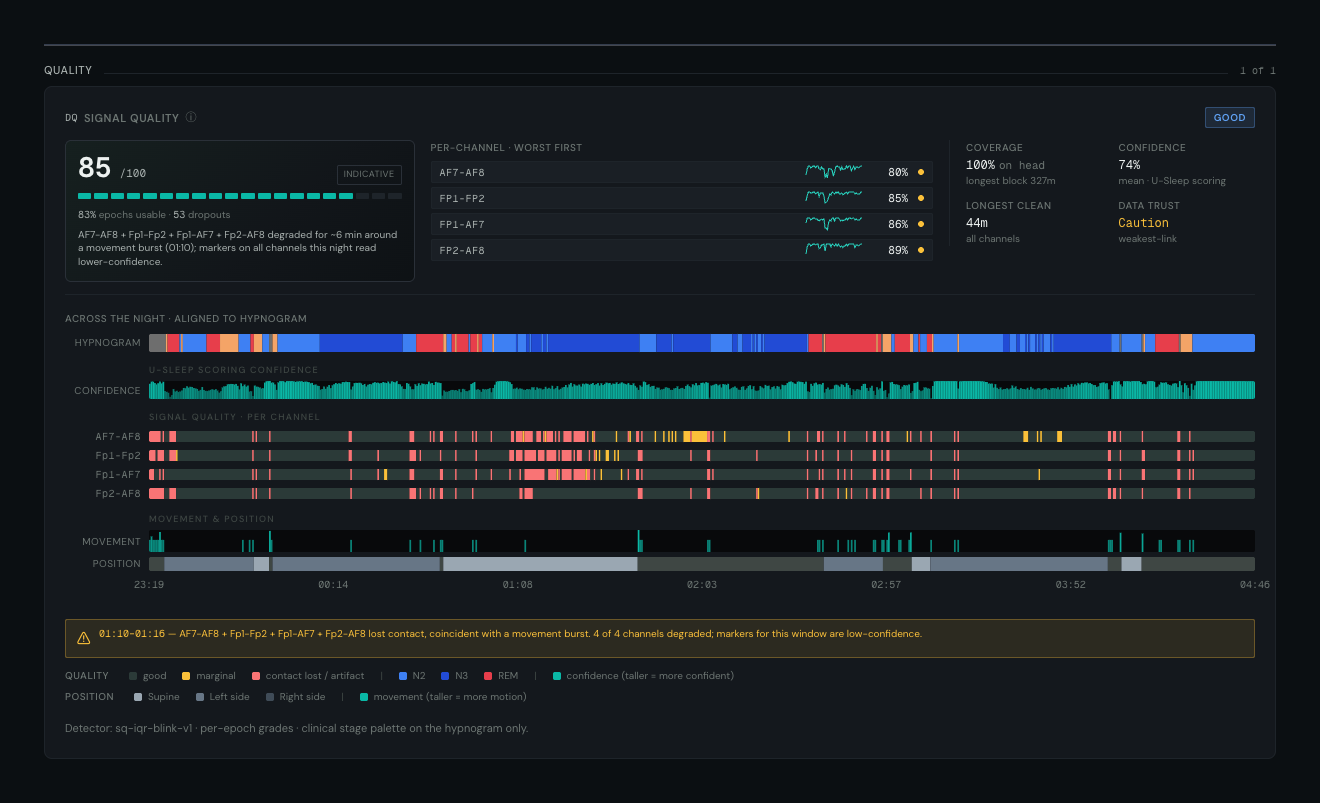
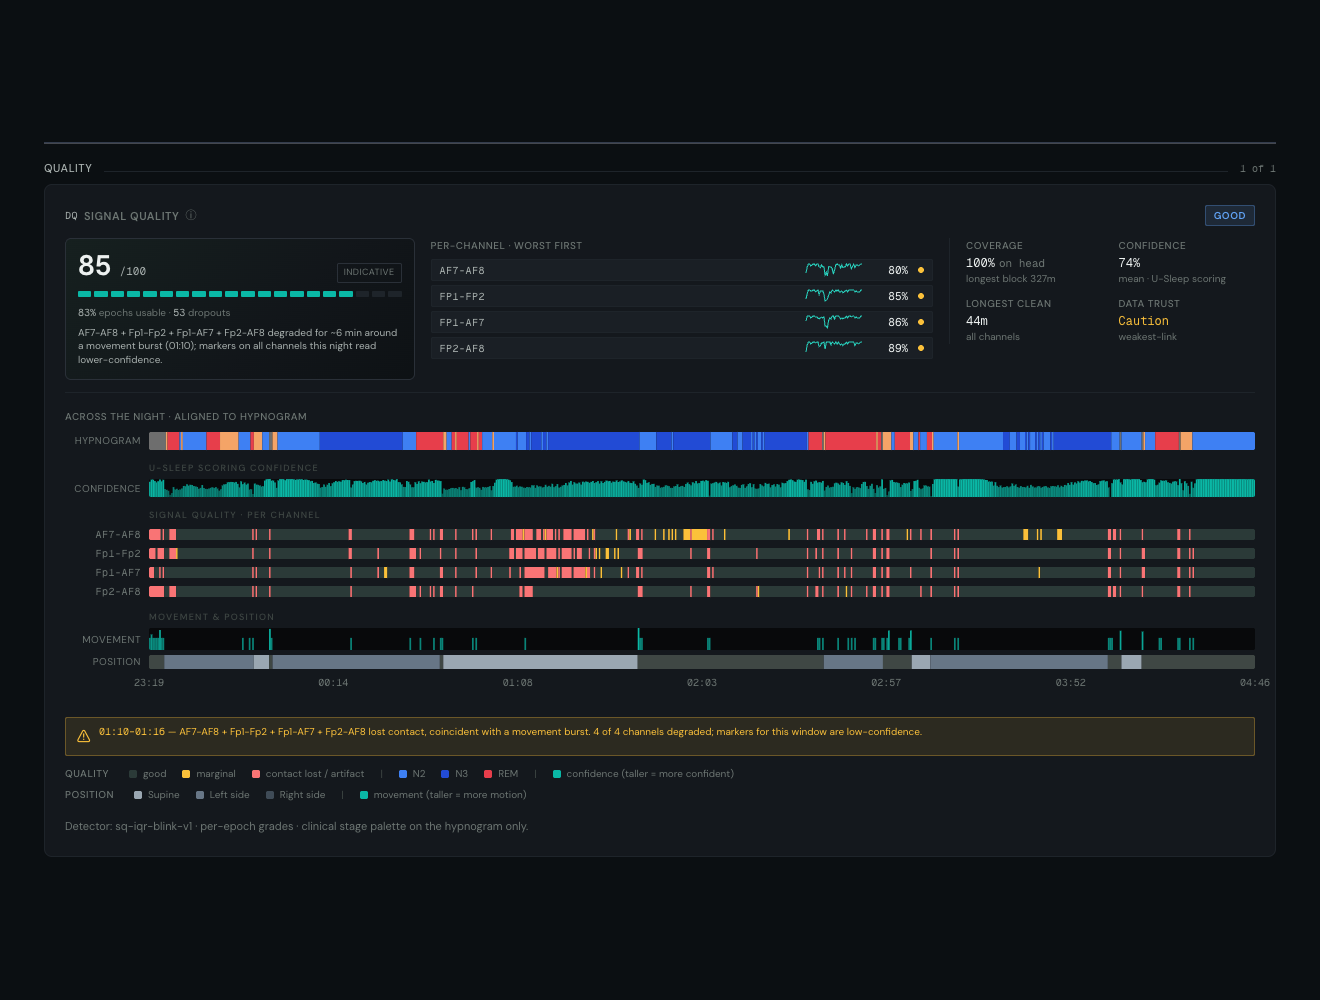
preview: refresh from feature/dna-v1-redesign @ 26c9d5f
Fixed platform screen frame (no resize between tabs) and taller
application card images.

diff --git a/index.html b/index.html
@@ -977,7 +977,7 @@ a {
 .platform__screen-frame { width: 100%; border: 1px solid var(--border-d); border-radius: 14px; overflow: hidden; background: var(--surface); box-shadow: 0 24px 60px rgba(0,0,0,0.5); }
 .platform__screen-bar { display: flex; align-items: center; gap: 8px; padding: 12px 16px; border-bottom: 1px solid var(--border-d); background: var(--bg-deep); }
 .platform__screen-url { margin-left: 12px; font-family: var(--font-mono); font-size: 11px; color: var(--fg-dim); }
-.platform__screen-body { position: relative; aspect-ratio: 1232 / 912; background: var(--bg-deep); }
+.platform__screen-body { position: relative; aspect-ratio: 1320 / 1000; background: var(--bg); }
 .platform__screen { position: absolute; inset: 0; opacity: 0; transition: opacity 0.45s ease; pointer-events: none; }
 .platform__screen.is-active { opacity: 1; pointer-events: auto; }
 .platform__screen img { width: 100%; height: 100%; object-fit: contain; object-position: center; display: block; }
@@ -989,7 +989,6 @@ a {
 @media (max-width: 860px) {
   .platform__showcase { grid-template-columns: 1fr; gap: 24px; margin-right: 0; padding-right: 0; }
   .platform__vstep { opacity: 1; }
-  .platform__screen-body { aspect-ratio: 16 / 12; }
 }
 .platform__feature-icon {
   width: 40px;
@@ -2362,9 +2361,9 @@ a {
 .appgrid { display: grid; grid-template-columns: repeat(3, 1fr); gap: 14px; margin-top: var(--space-xl); }
 .appcard { background: var(--surface); border: 1px solid var(--border-d); border-radius: 13px; overflow: hidden; display: flex; flex-direction: column; }
 .appcard--lead { border-color: rgba(27,168,160,.45); }
-.appcard__img { position: relative; height: 128px; overflow: hidden; }
+.appcard__img { position: relative; aspect-ratio: 16 / 10; overflow: hidden; }
 .appcard__img img { width: 100%; height: 100%; object-fit: cover; display: block; }
-.appcard__img::after { content: ''; position: absolute; inset: 0; background: linear-gradient(to top, rgba(11,15,18,.65), transparent 55%); }
+.appcard__img::after { content: ''; position: absolute; inset: 0; background: linear-gradient(to top, rgba(11,15,18,.6), transparent 32%); }
 .appcard__tag { position: absolute; top: 10px; left: 10px; z-index: 2; font-family: var(--font-mono); font-size: 0.58rem; text-transform: uppercase; letter-spacing: 0.09em; color: var(--color-teal); background: rgba(4,17,15,.72); border: 1px solid rgba(27,168,160,.45); border-radius: 999px; padding: 3px 9px; }
 .appcard__body { padding: 15px 17px; }
 .appcard__k { font-size: 1rem; font-weight: 600; color: var(--fg); margin-bottom: 5px; }
@@ -3943,7 +3942,7 @@ input:focus-visible, select:focus-visible, textarea:focus-visible {
         </div>
       </div>
       <div class="appcard">
-        <div class="appcard__img"><span class="appcard__tag">Neurology</span><img src="assets/applications/app-parkinsons.jpg" alt="Older man at home wearing the forearm sensor sleeve" loading="lazy" style="object-position:50% 42%;"></div>
+        <div class="appcard__img"><span class="appcard__tag">Neurology</span><img src="assets/applications/app-parkinsons.jpg" alt="Older man at home wearing the forearm sensor sleeve" loading="lazy" style="object-position:50% 16%;"></div>
         <div class="appcard__body">
           <div class="appcard__k">Parkinson&apos;s, between visits</div>
           <div class="appcard__d">MDS-UPDRS comes months apart, scored by hand. We read the brain on the nights in between, with EMG and motion from the sleeve.</div>
@@ -3951,7 +3950,7 @@ input:focus-visible, select:focus-visible, textarea:focus-visible {
         </div>
       </div>
       <div class="appcard">
-        <div class="appcard__img"><span class="appcard__tag">Psychiatry</span><img src="assets/applications/app-sleep-pro.jpg" alt="At-home sleep study with the Nexus headband" loading="lazy" style="object-position:32% 38%;"></div>
+        <div class="appcard__img"><span class="appcard__tag">Psychiatry</span><img src="assets/applications/app-sleep-pro.jpg" alt="At-home sleep study with the Nexus headband" loading="lazy" style="object-position:50% 30%;"></div>
         <div class="appcard__body">
           <div class="appcard__k">Psychiatry and mental health</div>
           <div class="appcard__d">Mood and cognition trials run on wrist actigraphy, which infers sleep from movement. The headband reads EEG, so you follow REM and slow-wave sleep through an episode.</div>
@@ -4595,36 +4594,14 @@ input:focus-visible, select:focus-visible, textarea:focus-visible {
   var screens = showcase.querySelectorAll('.platform__screen');
   var urlEl = document.getElementById('platform-url');
 
-  var body = showcase.querySelector('.platform__screen-body');
-
-  // each capture is a different shape; let the frame take the active one's
-  // aspect so the shot fills it exactly rather than being cropped or padded
-  function fitFrame(sc) {
-    var img = sc.querySelector('img');
-    if (!body || !img || !img.naturalWidth) return;
-    body.style.aspectRatio = img.naturalWidth + ' / ' + img.naturalHeight;
-  }
-
   function activate(key) {
     steps.forEach(function (s) { s.classList.toggle('is-active', s.dataset.screen === key); });
     screens.forEach(function (sc) {
       var on = sc.dataset.screen === key;
       sc.classList.toggle('is-active', on);
-      if (on) {
-        fitFrame(sc);
-        if (urlEl && sc.dataset.url) urlEl.textContent = sc.dataset.url;
-      }
+      if (on && urlEl && sc.dataset.url) urlEl.textContent = sc.dataset.url;
     });
   }
-
-  screens.forEach(function (sc) {
-    var img = sc.querySelector('img');
-    if (img) img.addEventListener('load', function () {
-      if (sc.classList.contains('is-active')) fitFrame(sc);
-    });
-  });
-  var first = showcase.querySelector('.platform__screen.is-active');
-  if (first) fitFrame(first);
 
   steps.forEach(function (s) {
     s.addEventListener('click', function () { activate(s.dataset.screen); });
